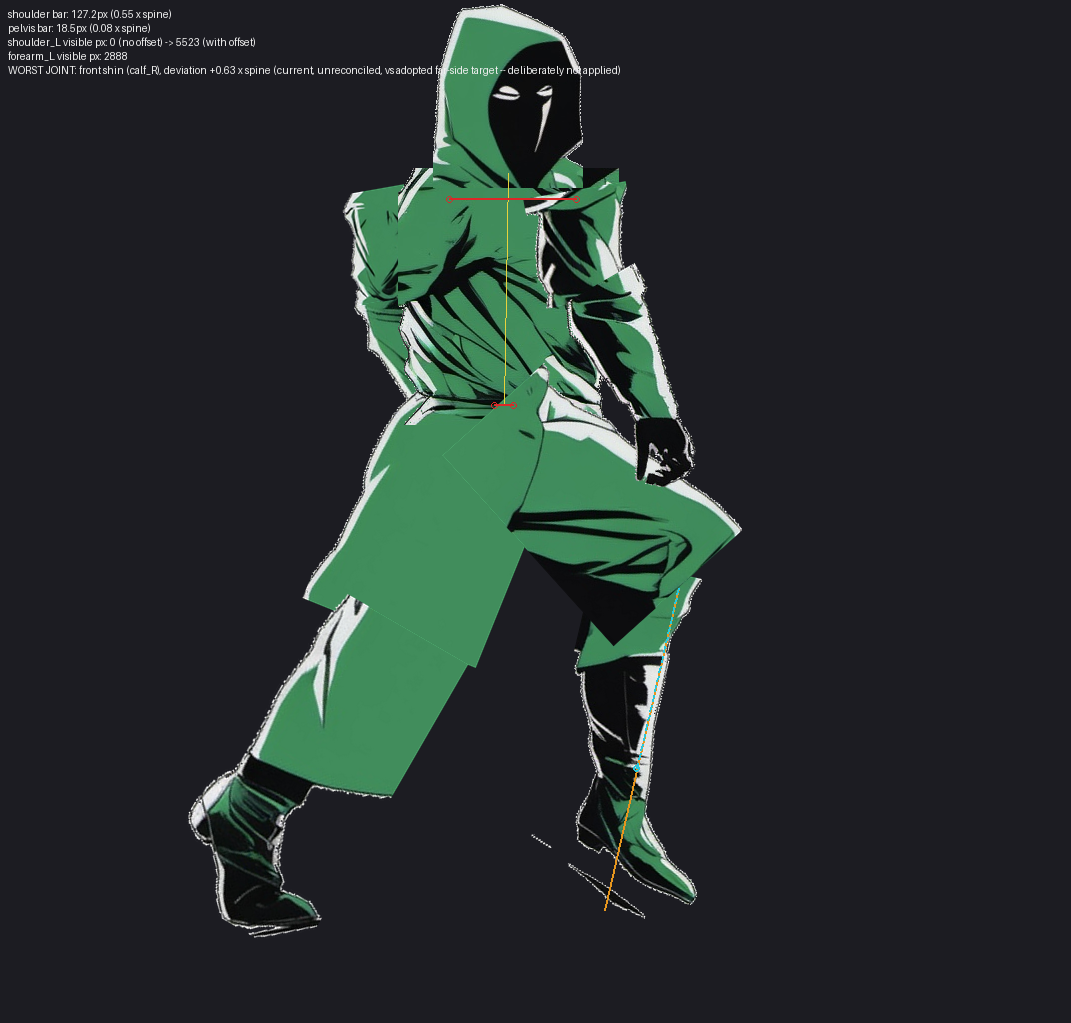
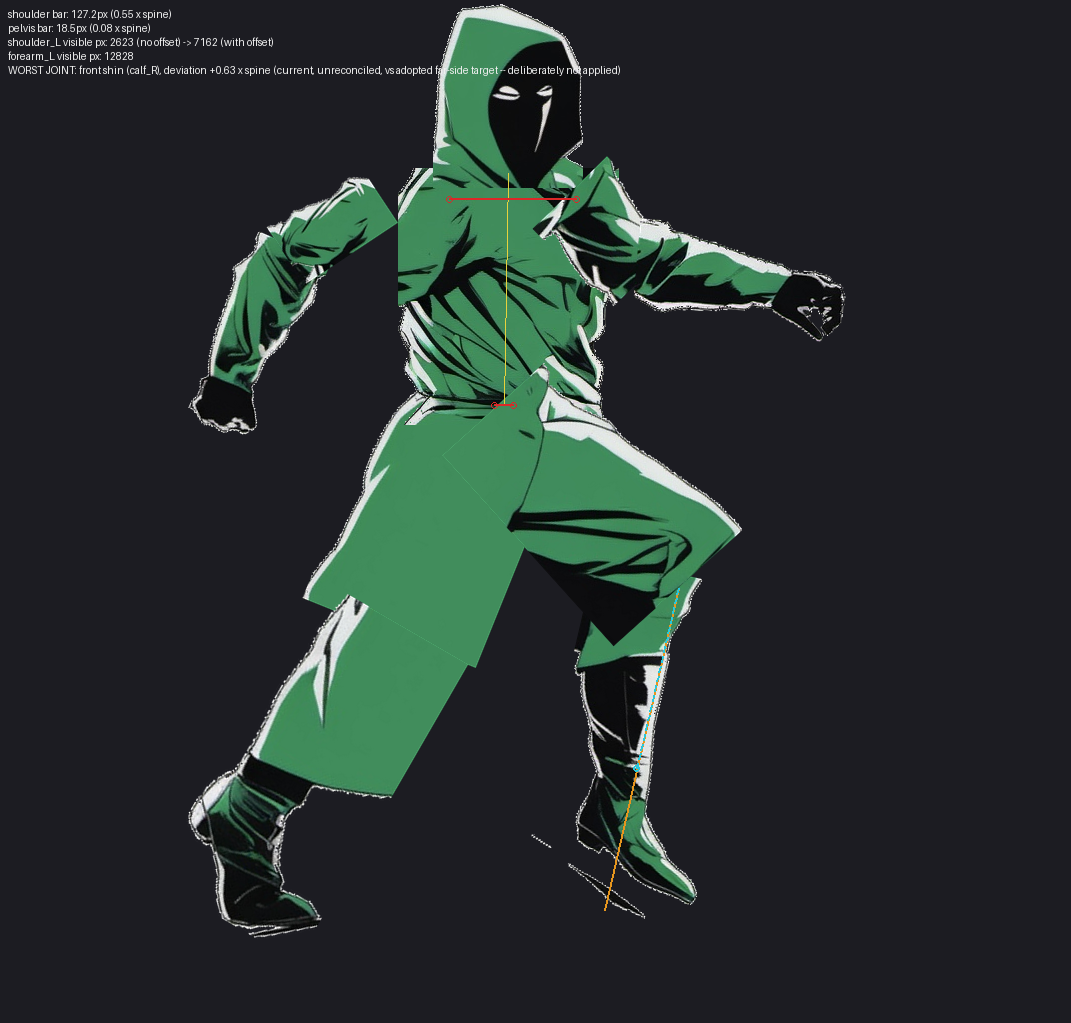
feat(character): T-0436 fix round 4 -- draw-order-audit evidence, regenerated reference-pose renders
gen_draw_order_audit_T0436.py is new: it composites the reference pose and labels
every part with its REALIZED draw rank and published z (derived by replaying
rig_compositor.render_frames's own paint order via
char_gen.draw_order_audit_T0436, not by re-printing rig.*.z), so the order can be
checked by eye rather than asserted. Re-run this round after the per-side arm
angle fix: 10 contested pairs, 0 resolving against the published order (full list
printed by the script; forearm_R/shoulder_R win every pixel they contest, thigh_R
wins against both thigh_L and calf_R, etc.) -- confirms rig.*.z itself needed no
change, only the arm angles that made the pairs actually overlap now.

docs/assets/evidence/T-0436/draw_order_audit.png (1071x1023) -- the new evidence
file.

reference_pose_render.png and rig_vs_reference_overlay.png regenerated (both still
1071x1023) from the fixed per-side arm angles -- the near arm now reaches forward
and the far arm trails back instead of both hanging at the same rest droop;
shoulder_L visible px 2623 (no lateral offset) -> 7162 (with it), forearm_L 12828
(up from the previous round's 2888 at the old rest-pose angles).

Changed region(s): [[0.493, 0.1515, 0.8011, 0.4848], [0.1849, 0.1515, 0.4006, 0.4242], [0.0924, 0.0303, 0.2465, 0.0606]]

diff --git a/assets/src/character/gen_draw_order_audit_T0436.py b/assets/src/character/gen_draw_order_audit_T0436.py
@@ -1,0 +1,125 @@
+#!/usr/bin/env python3
+"""T-0436 fix round 4 evidence: a labeled draw-order render.
+
+@DennieSeth's fix-round-3 comment claimed the z-order was wrong; measured
+directly (by replaying the actual paint loop, not by re-printing `rig.*.z`), it
+was not -- but that measurement lived only in prose (a reviewer verdict and a
+human-attached PNG built by a one-off script that was never committed). This
+script is the committed, re-runnable version of that same check: it labels every
+part in the composited reference-pose render with its REALIZED draw rank
+(derived by replaying `rig_compositor.render_frames`'s own paint order,
+`char_gen.draw_order_audit_T0436`) and its published z, so the order can be
+checked by eye, and prints the contested-pixel audit alongside it.
+
+Writes:
+    docs/assets/evidence/T-0436/draw_order_audit.png
+
+No test file: a one-off evidence-generation script, like
+`gen_reference_pose_evidence_T0436.py` -- the logic it calls
+(`char_gen.draw_order_audit_T0436`) carries the actual test coverage
+(`tests/test_draw_order_audit_T0436.py`).
+"""
+from __future__ import annotations
+
+from pathlib import Path
+
+import numpy as np
+from PIL import Image, ImageDraw
+
+from char_gen import reference_pose_T0436 as refpose
+from char_gen.draw_order_audit_T0436 import (
+    canvas_geometry,
+    contested_pairs,
+    part_alpha_masks,
+    realized_draw_rank,
+)
+
+OUT_DIR = Path(__file__).resolve().parents[3] / "docs" / "assets" / "evidence" / "T-0436"
+
+BG = (28, 28, 34, 255)
+LABEL_BG = (0, 0, 0, 170)
+LABEL_FG = (255, 255, 255, 255)
+
+
+def flatten_on(img: Image.Image, bg: tuple[int, int, int, int]) -> Image.Image:
+    flat = Image.new("RGBA", img.size, bg)
+    flat.alpha_composite(img)
+    return flat.convert("RGB")
+
+
+def composite(placements, canvas_size, offset) -> Image.Image:
+    canvas = Image.new("RGBA", canvas_size, (0, 0, 0, 0))
+    for p in sorted(placements, key=lambda pl: -pl.z):
+        dest = (
+            round(p.target_xy[0] - p.pivot_px[0] + offset[0]),
+            round(p.target_xy[1] - p.pivot_px[1] + offset[1]),
+        )
+        canvas.alpha_composite(p.image, dest=dest)
+    return canvas
+
+
+def part_label_anchor(mask: np.ndarray) -> tuple[int, int] | None:
+    """Centroid of THIS part's own realized-visible pixels (alpha >= threshold),
+    not its full bounding box -- so a label never lands on a region the part
+    doesn't actually win (e.g. the portion of shoulder_L hidden behind the
+    torso)."""
+    ys, xs = np.nonzero(mask >= 128)
+    if len(xs) == 0:
+        return None
+    return (int(xs.mean()), int(ys.mean()))
+
+
+def main() -> None:
+    OUT_DIR.mkdir(parents=True, exist_ok=True)
+
+    placements = refpose.build_reference_placements()
+    offset, canvas_size = canvas_geometry(placements)
+    masks = part_alpha_masks(placements, canvas_size, offset)
+    ranks = realized_draw_rank(placements)
+    pairs = contested_pairs(placements, masks)
+    violations = [p for p in pairs if p["resolves_against_z_order"]]
+
+    rendered = composite(placements, canvas_size, offset)
+    flat = flatten_on(rendered, BG)
+    draw = ImageDraw.Draw(flat, "RGBA")
+
+    z_of = {p.name: p.z for p in placements}
+    for name, mask in masks.items():
+        anchor = part_label_anchor(mask)
+        if anchor is None:
+            continue
+        label = f"{name}  z={z_of[name]} rank={ranks[name]}"
+        bbox = draw.textbbox(anchor, label)
+        pad = 2
+        draw.rectangle(
+            [bbox[0] - pad, bbox[1] - pad, bbox[2] + pad, bbox[3] + pad], fill=LABEL_BG,
+        )
+        draw.text(anchor, label, fill=LABEL_FG)
+
+    caption = (
+        f"realized draw order replayed from the paint loop -- "
+        f"{len(pairs)} contested pairs, {len(violations)} resolve against the published z-order"
+    )
+    cap_bbox = draw.textbbox((8, flat.height - 20), caption)
+    draw.rectangle(
+        [cap_bbox[0] - 2, cap_bbox[1] - 2, cap_bbox[2] + 2, cap_bbox[3] + 2], fill=LABEL_BG,
+    )
+    draw.text((8, flat.height - 20), caption, fill=LABEL_FG)
+
+    out_path = OUT_DIR / "draw_order_audit.png"
+    flat.save(out_path)
+
+    print("contested pairs:", len(pairs))
+    for p in sorted(pairs, key=lambda d: -d["contested_px"]):
+        print(
+            f"  {p['lower_z_part']} (lower z) vs {p['higher_z_part']} (higher z): "
+            f"{p['contested_px']}px contested, lower_wins={p['lower_z_wins']} "
+            f"higher_wins={p['higher_z_wins']} "
+            f"resolves_against_order={p['resolves_against_z_order']}"
+        )
+    print("violations:", len(violations))
+    print("wrote", out_path, flat.size)
+
+
+if __name__ == "__main__":
+    main()
